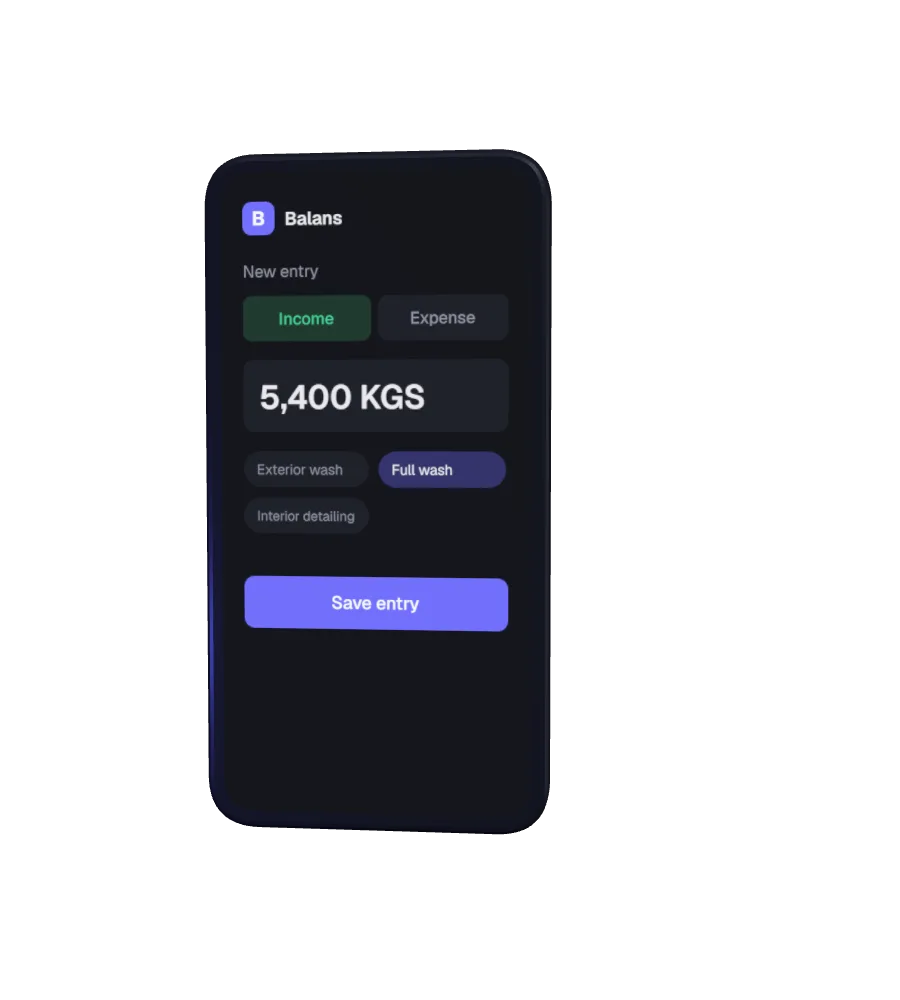
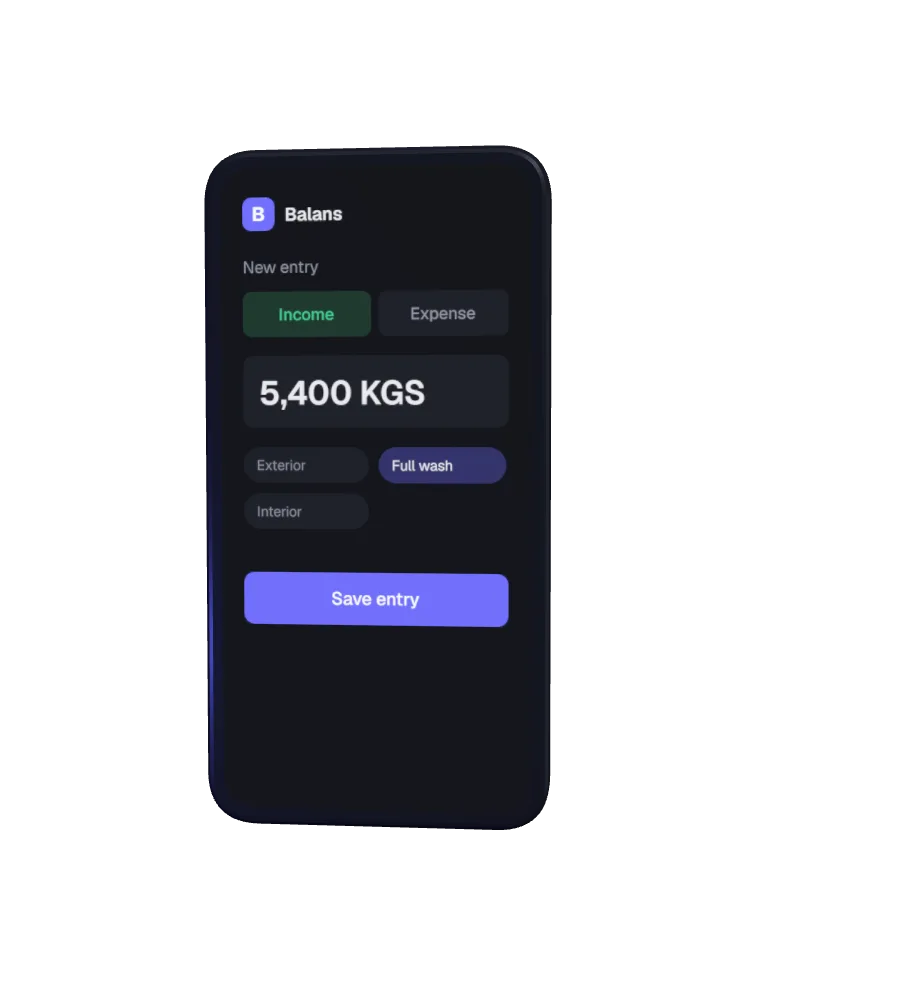
RUN 2B: правки по финальному ревью hero

diff --git a/src/app/page.tsx b/src/app/page.tsx
@@ -55,7 +55,8 @@ function Landing() {
     newEntry: t("landing.hero.screenNewEntry"),
     income: t("common.income"),
     expense: t("common.expense"),
-    chips: [t("landing.sample.exteriorWash"), t("landing.sample.fullWash"), t("landing.sample.detailing")] as [string, string, string],
+    // Short chip labels, as in the prototype: the full category names do not fit the 3D screen.
+    chips: [t("landing.hero.screenChip1"), t("landing.hero.screenChip2"), t("landing.hero.screenChip3")] as [string, string, string],
     save: t("entries.submit"),
     profitTitle: t("dashboard.profitFor", { month: monthName(current.month, locale) }),
     profitChange: `↗ ${formatChange(changePercent(profit, previous.income - previous.expense), locale)} ${t("dashboard.vsLastMonth")}`,

diff --git a/src/app/_landing/hero-scene.tsx b/src/app/_landing/hero-scene.tsx
@@ -401,7 +401,8 @@ function Rig({
     const value = step === 1 ? AMOUNT * clamp((p - 0.36) / 0.18, 0, 1) : step === 2 ? PROFIT * clamp((p - 0.68) / 0.2, 0, 1) : 0
     screen.draw(step, value)
 
-    const t = state.clock.elapsedTime
+    // Capture mode freezes the time, so the pictures of both languages show the coins in the same places.
+    const t = capture ? 1.5 : state.clock.elapsedTime
     // Narrower than the 900×1000 pictures: pull the camera back so the whole scene fits the width, like object-contain.
     state.camera.position.z = 12 * Math.max(1, 0.9 / (state.size.width / state.size.height))
     // Same framing on every screen: the camera keeps the height, so one set of poster pictures fits all.

diff --git a/docs/launch/PROGRESS.md b/docs/launch/PROGRESS.md
@@ -35,7 +35,7 @@
 
 ## Чек-поинт
 
-Чек-поинт 2026-11-16 отработан 2026-11-17: этапы 3 и 4 закрыты. Дальше — СТОП RUN 2B (полные ворота, `screen-reviewer`, push, preview, отчёт).
+Чек-поинт 2026-11-16 отработан 2026-11-17: этапы 3 и 4 закрыты, финальное ревью `screen-reviewer` без блокеров. **Стоим на СТОП RUN 2B:** ждём от Даниэла (1) проверку переменных Supabase для Preview в Vercel перед push, (2) решение по обновлению Next (`next upgrade --agent=security`). Потом push, preview-ссылка, его проверка, влить в `main`, RUN 4.
 
 ## Решения
 
@@ -118,6 +118,11 @@
 - **`experimental.inlineCss` попробовали и откатили:** в devtools LCP стал 2,4 с, но основная оценка Lighthouse (симуляция) упала до 68/69. Глобальная экспериментальная опция без выигрыша по главной метрике не нужна.
 - **Сборка Next 16.4.3 останавливается сообщением о уязвимости** (`SecurityFatalError`, предлагает `next upgrade --agent=security`); повторный запуск проходит. Обновление — решение Даниэла.
 
+### RUN 2B, финальное ревью (2026-11-17)
+
+- Исправлено: короткие подписи чипов на 3D-экране, как в прототипе (полные названия не влезали); картинки шагов обоих языков сняты в одном положении монет (в режиме съёмки время остановлено). Пустой hero на 3 полных снимках `check-screens` — dev-сервер впервые готовил картинку нужного размера, вживую в запасном режиме она видна через 200 мс.
+- Оставлено: € и ₽ среди монет (набор задан ТЗ), тёмные столбики шага 2 (новых оттенков нет), мелочи по фону гостевых и плашке hero на 360 — в «После запуска».
+
 ### RUN 2B, этап 4 (2026-11-17)
 
 - **Фон гостевых страниц `GuestBackdrop`** (`components/guest-backdrop.tsx`): серверная разметка, SVG + CSS, без JS. Монеты со знаком сома, плитка «B», столбики дохода и расхода, цвета из токенов, цикл 24–34 с. На телефоне 4 элемента из 6, меньше и по краям. Подключён в `AuthShell` и корневой `error.tsx`; `global-error` (аварийная страница со своим `<html>`) без фона.
@@ -125,6 +130,8 @@
 ## После запуска
 
 (идеи и необязательные доработки; сейчас не делаем)
+
+- Из финального ревью RUN 2B: плашка «Balans · Учёт денег…» на 360/390 в две строки остаётся вытянутой капсулой; одиночные столбики в фоне гостевых на 1440/1920 стоят ближе к центру, чем «по краям»; на 768 в Windows кнопка «Открыть демо» в шапке почти упирается в полосу прокрутки.
 
 - Скорость лендинга до 90 в симуляции Lighthouse: остаток — основные скрипты Next/React и гидратация. Варианты: `experimental.inlineCss` (в devtools LCP 2,4 с, в симуляции хуже — перемерить на Vercel), передавать в `NextIntlClientProvider` только нужные разделы словаря.
 
